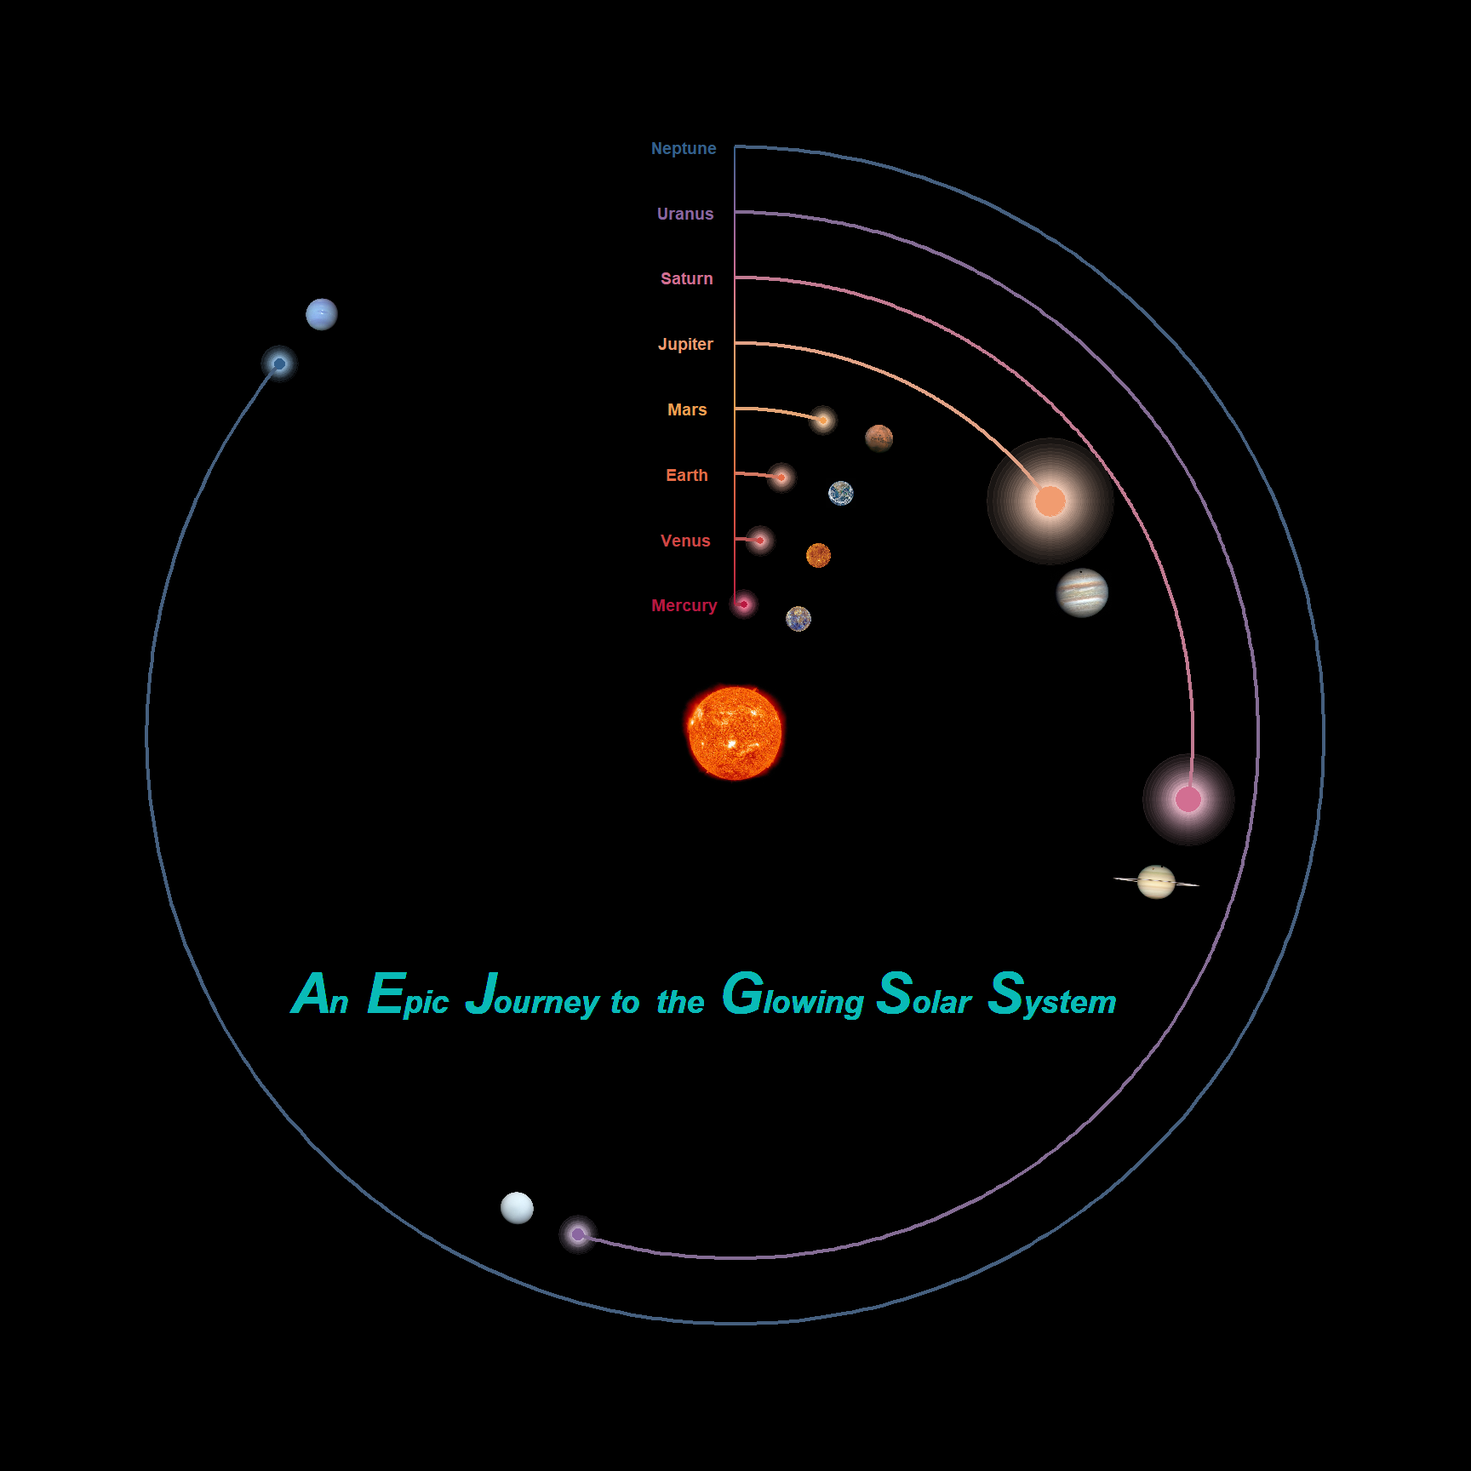
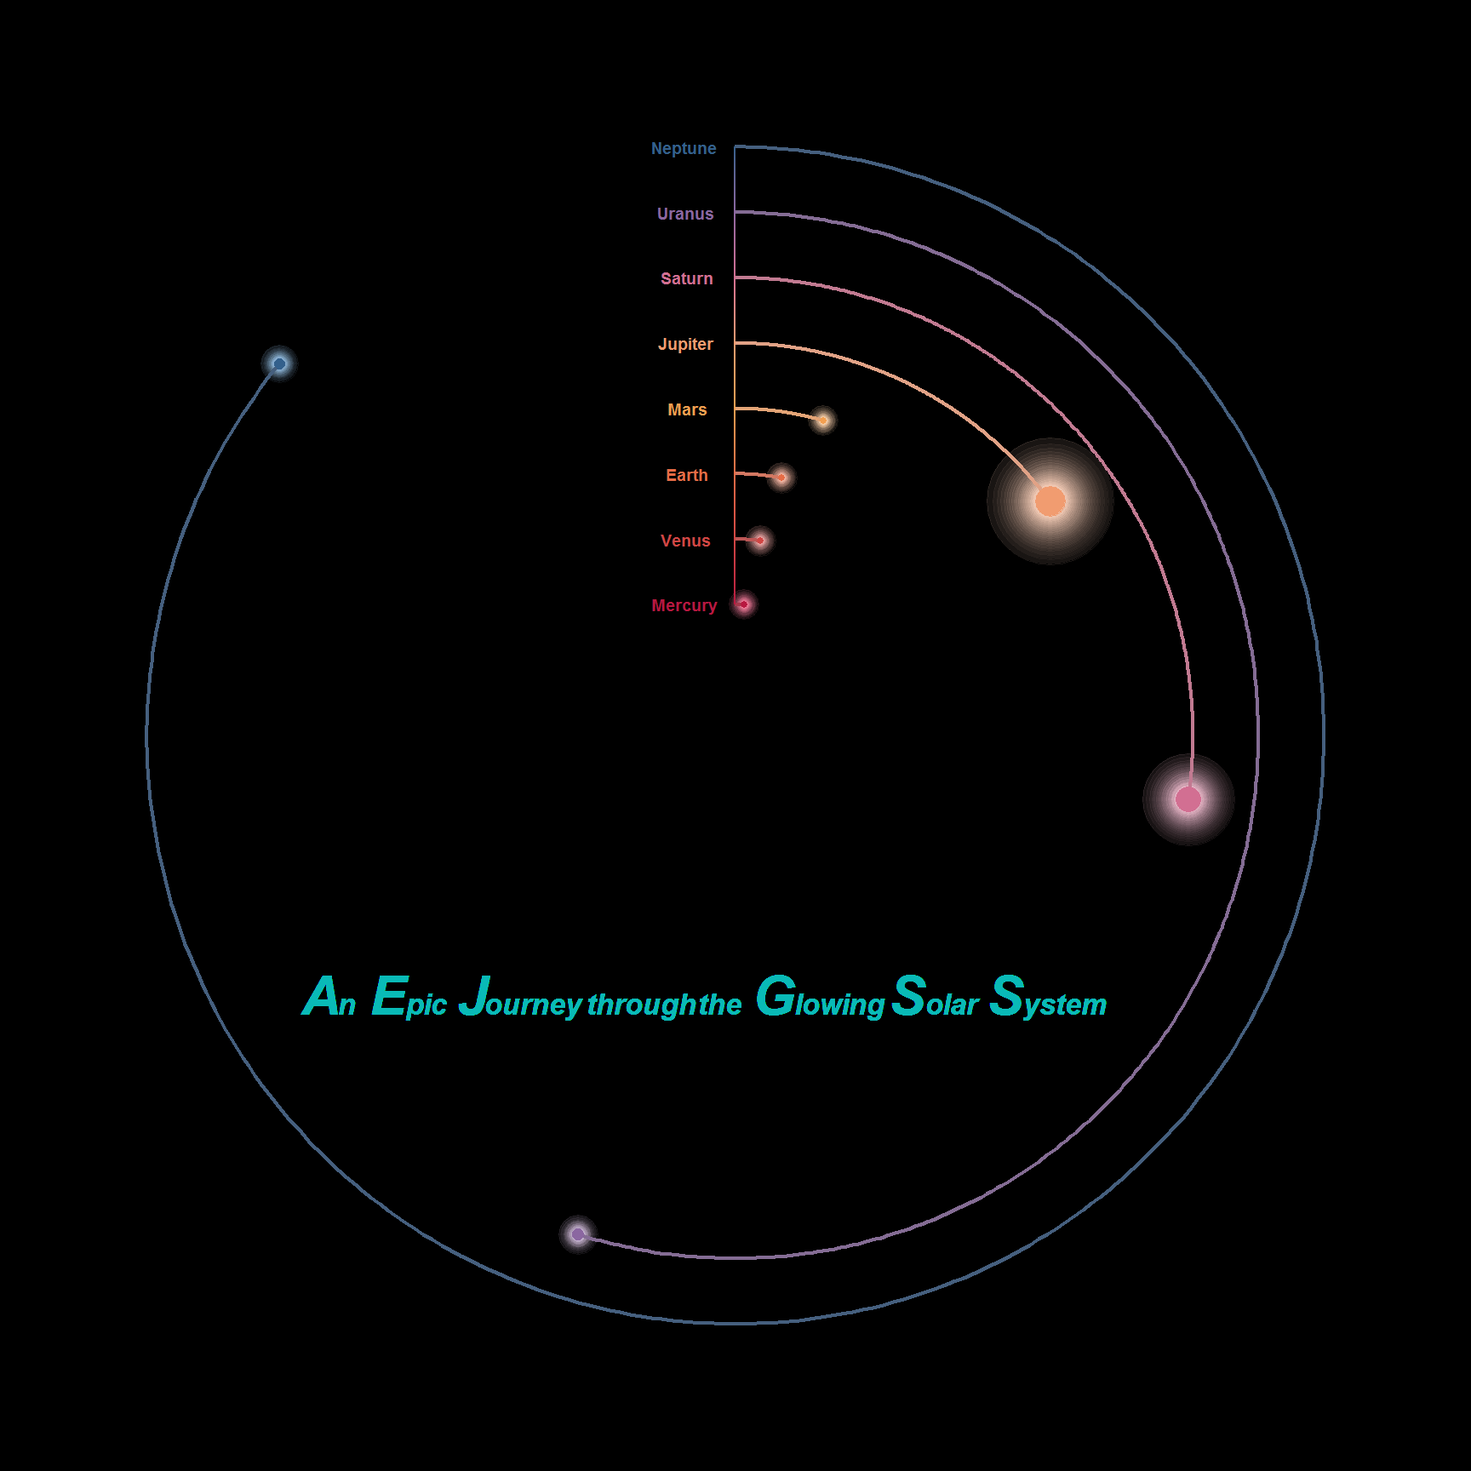
u

diff --git a/_posts/2022-11-02-post-22-the-glowing-solar-system/post-22-the-glowing-solar-system.html b/_posts/2022-11-02-post-22-the-glowing-solar-system/post-22-the-glowing-solar-system.html
@@ -1489,7 +1489,7 @@ code span.wa { color: #5e5e5e; font-style: italic; } /* Warning */
 <!--radix_placeholder_front_matter-->
 
 <script id="distill-front-matter" type="text/json">
-{"title":"Post #22. An epic ggplot journey through the glowing solar system","description":"Ready for an epic ggplot journey through the glowing solar system? Let's go!","authors":[{"author":"Gen-Chang Hsu","authorURL":"#","affiliation":"&nbsp;","affiliationURL":"#","orcidID":""}],"publishedDate":"2022-11-02T00:00:00.000+08:00","citationText":"Hsu, 2022"}
+{"title":"Post #22. An epic ggplot journey through the glowing solar system","description":"Ready for an epic ggplot journey through the glowing solar system? Let's go!","authors":[{"author":"Gen-Chang Hsu","authorURL":"#","affiliation":"&nbsp;","affiliationURL":"#","orcidID":""}],"publishedDate":"2022-11-02T00:00:00.000-07:00","citationText":"Hsu, 2022"}
 </script>
 
 <!--/radix_placeholder_front_matter-->
@@ -1610,10 +1610,11 @@ science skills: data scraping, data wrangling, and data
 visualization.</p>
 <p>The rocket is about to lift off now. Take a deep breath and we are
 ready for our space journey!!!</p>
-<h2 id="a-leg-by-leg-journey-to-the-solar-system">A leg-by-leg journey
-to the solar system</h2>
+<h2 id="a-leg-by-leg-journey-through-the-solar-system">A leg-by-leg
+journey through the solar system</h2>
 <p>This is quite a long journey, and so I’ll break it down into several
-legs so that we can fully explore the scenery along the way.</p>
+legs so that we can fully explore the great scenery of the outer space
+along the way.</p>
 <h3 id="leg-1.-scrape-the-planetary-data">Leg 1. Scrape the planetary
 data</h3>
 <p>Our first leg is to prepare the planetary data for our figure. We’ll
@@ -1643,18 +1644,18 @@ into a tidy table.</p>
 <span></span>
 <span><span class='fu'><a href='https://rdrr.io/r/utils/head.html'>head</a></span><span class='op'>(</span><span class='va'>planetary_dat</span>, <span class='fl'>5</span><span class='op'>)</span></span></code></pre>
 </div>
-<pre><code># A tibble: 5 × 9
-  row_id planet  distance_fr…¹ perio…² perio…³ mass_…⁴ diame…⁵ numbe…⁶
+<pre><code># A tibble: 5 x 9
+  row_id planet  distance_fr~1 perio~2 perio~3 mass_~4 diame~5 numbe~6
    &lt;int&gt; &lt;chr&gt;           &lt;dbl&gt; &lt;chr&gt;   &lt;chr&gt;     &lt;dbl&gt;   &lt;dbl&gt;   &lt;dbl&gt;
 1      1 Mercury          0.39 88 days 59 days    0.06    0.38       0
-2      2 Venus            0.72 225 da… 243 da…    0.82    0.95       0
-3      3 Earth            1    365 da… 24 hou…    1       1          1
-4      4 Mars             1.52 687 da… 25 hou…    0.11    0.53       2
-5      5 Jupiter          5.2  12 yea… 10 hou…  318.     11.2       63
-# … with 1 more variable: volume_earth_1 &lt;dbl&gt;, and abbreviated
-#   variable names ¹distance_from_the_sun_au, ²period_of_revolution,
-#   ³period_of_rotation, ⁴mass_earth_1, ⁵diameter_earth_1,
-#   ⁶number_of_confirmed_satellites</code></pre>
+2      2 Venus            0.72 225 da~ 243 da~    0.82    0.95       0
+3      3 Earth            1    365 da~ 24 hou~    1       1          1
+4      4 Mars             1.52 687 da~ 25 hou~    0.11    0.53       2
+5      5 Jupiter          5.2  12 yea~ 10 hou~  318.     11.2       63
+# ... with 1 more variable: volume_earth_1 &lt;dbl&gt;, and abbreviated
+#   variable names 1: distance_from_the_sun_au,
+#   2: period_of_revolution, 3: period_of_rotation, 4: mass_earth_1,
+#   5: diameter_earth_1, 6: number_of_confirmed_satellites</code></pre>
 </div>
 <h3 id="leg-2.-retrieve-the-url-paths-to-the-planet-images">Leg 2.
 Retrieve the url paths to the planet images</h3>
@@ -1778,32 +1779,47 @@ package <code>gginnards</code> will do the trick.</p>
 <span></span>
 <span><span class='kw'><a href='https://rdrr.io/r/base/library.html'>library</a></span><span class='op'>(</span><span class='va'><a href='https://www.r4photobiology.info'>gginnards</a></span><span class='op'>)</span></span>
 <span></span>
-<span><span class='fu'><a href='https://purrr.tidyverse.org/reference/map.html'>map_chr</a></span><span class='op'>(</span><span class='va'>P_solar_system</span><span class='op'>$</span><span class='va'>layers</span>, <span class='kw'>function</span><span class='op'>(</span><span class='va'>x</span><span class='op'>)</span><span class='op'>{</span><span class='fu'><a href='https://rdrr.io/r/base/class.html'>class</a></span><span class='op'>(</span><span class='va'>x</span><span class='op'>$</span><span class='va'>geom</span><span class='op'>)</span><span class='op'>[</span><span class='fl'>1</span><span class='op'>]</span><span class='op'>}</span><span class='op'>)</span>  <span class='co'># get the layer names</span></span></code></pre>
-</div>
-<pre><code>[1] &quot;GeomPointBlur&quot;       &quot;GeomPath&quot;            &quot;GeomPoint&quot;          
-[4] &quot;GeomPathInterpolate&quot; &quot;GeomRichText&quot;        &quot;GeomRichText&quot;       </code></pre>
-<div class="sourceCode">
-<pre class="sourceCode r"><code class="sourceCode r"><span><span class='va'>P_solar_system</span> <span class='op'>&lt;-</span> <span class='fu'><a href='https://rdrr.io/pkg/gginnards/man/delete_layers.html'>move_layers</a></span><span class='op'>(</span><span class='va'>P_solar_system</span>, <span class='st'>"GeomRichText"</span>, position <span class='op'>=</span> <span class='st'>"bottom"</span><span class='op'>)</span>  <span class='co'># move the layer "GeomRichText" to the bottom  </span></span>
+<span><span class='fu'><a href='https://purrr.tidyverse.org/reference/map.html'>map_chr</a></span><span class='op'>(</span><span class='va'>P_solar_system</span><span class='op'>$</span><span class='va'>layers</span>, <span class='kw'>function</span><span class='op'>(</span><span class='va'>x</span><span class='op'>)</span><span class='op'>{</span><span class='fu'><a href='https://rdrr.io/r/base/class.html'>class</a></span><span class='op'>(</span><span class='va'>x</span><span class='op'>$</span><span class='va'>geom</span><span class='op'>)</span><span class='op'>[</span><span class='fl'>1</span><span class='op'>]</span><span class='op'>}</span><span class='op'>)</span>  <span class='co'># get the layer names</span></span>
+<span><span class='va'>P_solar_system</span> <span class='op'>&lt;-</span> <span class='fu'><a href='https://rdrr.io/pkg/gginnards/man/delete_layers.html'>move_layers</a></span><span class='op'>(</span><span class='va'>P_solar_system</span>, <span class='st'>"GeomRichText"</span>, position <span class='op'>=</span> <span class='st'>"bottom"</span><span class='op'>)</span>  <span class='co'># move the layer "GeomRichText" to the bottom  </span></span>
 <span><span class='va'>P_solar_system</span></span></code></pre>
 </div>
-<p><img src="post-22-the-glowing-solar-system_files/figure-html5/unnamed-chunk-5-1.png" width="80%" style="display: block; margin: auto;" /></p>
 </div>
 <h3 id="leg-6.-add-a-title-and-planet-labels">Leg 6. Add a title and
 planet labels</h3>
+<p>Our sixth leg is to add a title and planet labels to the chart. Here
+I used <code>geom_text()</code> to map the planet labels to the desired
+positions, and again <code>geom_richtext()</code> to add a title using
+the HTML syntax.</p>
+<p>I think you might wonder why I padded the planet labels. Actually,
+when I just added the labels and adjusted their positions to the left of
+the vertical line by setting <code>hjust = 1</code>, these labels were
+left-shifted but right-aligned (which didn’t look so pleasant in my
+opinion). This is mainly due to the fact that the labels are of
+different lengths. I wanted the labels to be centered, and so I used
+this padding trick to make the labels extremely long and of similar
+lengths. In this way, I don’t have to adjust the positions that much
+(<code>hjust = 0.7</code> would be enough to shift the labels to the
+left), and this will largely reduce the right-alignment problem.</p>
+<p>After some trial and error, the labels seemed to be fairly centered.
+Sometimes it does take a while to experiment and fine-tune the values
+when you adjust the item positions (and this could even a bit
+irritating!). But isn’t this the most fun and fulfilling part of making
+figures?!</p>
 <div class="layout-chunk" data-layout="l-body">
 <div class="sourceCode">
-<pre class="sourceCode r"><code class="sourceCode r"><span><span class='va'>planetary_dat</span> <span class='op'>&lt;-</span> <span class='va'>planetary_dat</span> <span class='op'><a href='https://magrittr.tidyverse.org/reference/pipe.html'>%&gt;%</a></span> </span>
+<pre class="sourceCode r"><code class="sourceCode r"><span><span class='kw'><a href='https://rdrr.io/r/base/library.html'>library</a></span><span class='op'>(</span><span class='va'><a href='https://wilkelab.org/ggtext/'>ggtext</a></span><span class='op'>)</span></span>
+<span><span class='va'>planetary_dat</span> <span class='op'>&lt;-</span> <span class='va'>planetary_dat</span> <span class='op'><a href='https://magrittr.tidyverse.org/reference/pipe.html'>%&gt;%</a></span> </span>
 <span>  <span class='fu'><a href='https://dplyr.tidyverse.org/reference/mutate.html'>mutate</a></span><span class='op'>(</span>planet_pad <span class='op'>=</span> <span class='fu'><a href='https://rdrr.io/r/base/ifelse.html'>ifelse</a></span><span class='op'>(</span><span class='fu'><a href='https://rdrr.io/r/base/nchar.html'>nchar</a></span><span class='op'>(</span><span class='va'>planet</span><span class='op'>)</span><span class='op'><a href='https://rdrr.io/r/base/Arithmetic.html'>%%</a></span><span class='fl'>2</span> <span class='op'>==</span> <span class='fl'>0</span>, </span>
 <span>                             <span class='fu'><a href='https://stringr.tidyverse.org/reference/str_pad.html'>str_pad</a></span><span class='op'>(</span><span class='va'>planet</span>, width <span class='op'>=</span> <span class='fl'>50</span>, side <span class='op'>=</span> <span class='st'>"both"</span><span class='op'>)</span>,</span>
-<span>                             <span class='fu'><a href='https://stringr.tidyverse.org/reference/str_pad.html'>str_pad</a></span><span class='op'>(</span><span class='va'>planet</span>, width <span class='op'>=</span> <span class='fl'>51</span>, side <span class='op'>=</span> <span class='st'>"both"</span><span class='op'>)</span><span class='op'>)</span><span class='op'>)</span></span>
+<span>                             <span class='fu'><a href='https://stringr.tidyverse.org/reference/str_pad.html'>str_pad</a></span><span class='op'>(</span><span class='va'>planet</span>, width <span class='op'>=</span> <span class='fl'>51</span>, side <span class='op'>=</span> <span class='st'>"both"</span><span class='op'>)</span><span class='op'>)</span><span class='op'>)</span>  <span class='co'># pad the labels</span></span>
 <span></span>
 <span><span class='va'>P_solar_system</span> <span class='op'>&lt;-</span> <span class='va'>P_solar_system</span> <span class='op'>+</span> </span>
 <span>  <span class='fu'><a href='https://ggplot2.tidyverse.org/reference/geom_text.html'>geom_text</a></span><span class='op'>(</span>data <span class='op'>=</span> <span class='va'>planetary_dat</span>, <span class='fu'><a href='https://ggplot2.tidyverse.org/reference/aes.html'>aes</a></span><span class='op'>(</span>x <span class='op'>=</span> <span class='va'>row_id</span>, y <span class='op'>=</span> <span class='fl'>0</span>, color <span class='op'>=</span> <span class='va'>row_id</span>,</span>
 <span>                                          label <span class='op'>=</span> <span class='fu'><a href='https://glue.tidyverse.org/reference/glue.html'>glue</a></span><span class='op'>(</span><span class='st'>"{planet_pad}"</span><span class='op'>)</span><span class='op'>)</span>,</span>
 <span>            size <span class='op'>=</span> <span class='fl'>2.5</span>, fontface <span class='op'>=</span> <span class='st'>"bold"</span>, hjust <span class='op'>=</span> <span class='fl'>0.7</span><span class='op'>)</span> <span class='op'>+</span> </span>
 <span>  <span class='fu'><a href='https://wilkelab.org/ggtext/reference/geom_richtext.html'>geom_richtext</a></span><span class='op'>(</span>data <span class='op'>=</span> <span class='va'>planetary_dat</span>, <span class='fu'><a href='https://ggplot2.tidyverse.org/reference/aes.html'>aes</a></span><span class='op'>(</span>x <span class='op'>=</span> <span class='fl'>3.3</span>, y <span class='op'>=</span> <span class='fl'>18.2</span>,</span>
-<span>                                          label <span class='op'>=</span> <span class='st'>"&lt;b&gt;&lt;span style = 'font-size:25pt'&gt;A&lt;/span&gt;n&lt;span&gt; &lt;/span&gt;&lt;span style = 'font-size:25pt'&gt;E&lt;/span&gt;pic&lt;span&gt; &lt;/span&gt;&lt;span style = 'font-size:25pt'&gt;J&lt;/span&gt;ourney&lt;span&gt; &lt;/span&gt;to&lt;span&gt; &lt;/span&gt;the&lt;span&gt; &lt;/span&gt;&lt;span style = 'font-size:25pt'&gt;G&lt;/span&gt;lowing&lt;span&gt; &lt;/span&gt;&lt;span style = 'font-size:25pt'&gt;S&lt;/span&gt;olar&lt;span&gt; &lt;/span&gt;&lt;span style = 'font-size:25pt'&gt;S&lt;/span&gt;ystem&lt;/b&gt;&lt;br&gt;"</span><span class='op'>)</span>,</span>
-<span>                size <span class='op'>=</span> <span class='fl'>5</span>, </span>
+<span>                                          label <span class='op'>=</span> <span class='st'>"&lt;b&gt;&lt;span style = 'font-size:24pt'&gt;A&lt;/span&gt;n&lt;span&gt; &lt;/span&gt;&lt;span style = 'font-size:24pt'&gt;E&lt;/span&gt;pic&lt;span&gt; &lt;/span&gt;&lt;span style = 'font-size:24pt'&gt;J&lt;/span&gt;ourney&lt;span&gt; &lt;/span&gt;through&lt;span&gt; &lt;/span&gt;the&lt;span&gt; &lt;/span&gt;&lt;span style = 'font-size:24pt'&gt;G&lt;/span&gt;lowing&lt;span&gt; &lt;/span&gt;&lt;span style = 'font-size:24pt'&gt;S&lt;/span&gt;olar&lt;span&gt; &lt;/span&gt;&lt;span style = 'font-size:24pt'&gt;S&lt;/span&gt;ystem&lt;/b&gt;&lt;br&gt;"</span><span class='op'>)</span>,</span>
+<span>                size <span class='op'>=</span> <span class='fl'>4.5</span>, </span>
 <span>                color <span class='op'>=</span> <span class='cn'>NA</span>,</span>
 <span>                fill <span class='op'>=</span> <span class='cn'>NA</span>,</span>
 <span>                text.color <span class='op'>=</span> <span class='st'>"#09bab7"</span>,</span>
@@ -1816,12 +1832,17 @@ planet labels</h3>
 </div>
 <h3 id="leg-7.-sprinkle-some-glittering-stars">Leg 7. Sprinkle some
 glittering stars</h3>
+<p>We’re almost done! Our final leg is to embellish the figure with some
+glittering stars. We’ll do this by first creating another ggplot with
+random blurry points scattered across a transparent background, and then
+overlaying it on the original planet figure using the functions in the
+package <code>cowplot</code>.</p>
 <div class="layout-chunk" data-layout="l-body">
 <div class="sourceCode">
 <pre class="sourceCode r"><code class="sourceCode r"><span><span class='fu'><a href='https://rdrr.io/r/base/Random.html'>set.seed</a></span><span class='op'>(</span><span class='fl'>123</span><span class='op'>)</span></span>
 <span><span class='va'>stars_df</span> <span class='op'>&lt;-</span> <span class='fu'><a href='https://rdrr.io/r/base/data.frame.html'>data.frame</a></span><span class='op'>(</span>x <span class='op'>=</span> <span class='fu'><a href='https://rdrr.io/r/stats/Uniform.html'>runif</a></span><span class='op'>(</span><span class='fl'>50</span><span class='op'>)</span>,</span>
 <span>                       y <span class='op'>=</span> <span class='fu'><a href='https://rdrr.io/r/stats/Uniform.html'>runif</a></span><span class='op'>(</span><span class='fl'>50</span><span class='op'>)</span>,</span>
-<span>                       size <span class='op'>=</span> <span class='fu'><a href='https://rdrr.io/r/stats/Uniform.html'>runif</a></span><span class='op'>(</span><span class='fl'>50</span><span class='op'>)</span><span class='op'>)</span></span>
+<span>                       size <span class='op'>=</span> <span class='fu'><a href='https://rdrr.io/r/stats/Uniform.html'>runif</a></span><span class='op'>(</span><span class='fl'>50</span><span class='op'>)</span><span class='op'>)</span>  <span class='co'># stars of random positions and sizes</span></span>
 <span></span>
 <span><span class='va'>P_stars</span> <span class='op'>&lt;-</span> <span class='fu'><a href='https://ggplot2.tidyverse.org/reference/ggplot.html'>ggplot</a></span><span class='op'>(</span><span class='op'>)</span> <span class='op'>+</span> </span>
 <span>  <span class='fu'><a href='https://rdrr.io/pkg/ggblur/man/geom_point_blur.html'>geom_point_blur</a></span><span class='op'>(</span>data <span class='op'>=</span> <span class='va'>stars_df</span>, <span class='fu'><a href='https://ggplot2.tidyverse.org/reference/aes.html'>aes</a></span><span class='op'>(</span>x <span class='op'>=</span> <span class='va'>x</span>, y <span class='op'>=</span> <span class='va'>y</span>, size <span class='op'>=</span> <span class='va'>size</span>,</span>
@@ -1831,23 +1852,26 @@ glittering stars</h3>
 <span>  <span class='fu'><a href='https://ggplot2.tidyverse.org/reference/scale_size.html'>scale_size_continuous</a></span><span class='op'>(</span>range <span class='op'>=</span> <span class='fu'><a href='https://rdrr.io/r/base/c.html'>c</a></span><span class='op'>(</span><span class='fl'>0</span>, <span class='fl'>0.35</span><span class='op'>)</span><span class='op'>)</span> <span class='op'>+</span> </span>
 <span>  <span class='fu'><a href='https://ggplot2.tidyverse.org/reference/ggtheme.html'>theme_void</a></span><span class='op'>(</span><span class='op'>)</span> <span class='op'>+</span> </span>
 <span>  <span class='fu'><a href='https://ggplot2.tidyverse.org/reference/theme.html'>theme</a></span><span class='op'>(</span>plot.background <span class='op'>=</span> <span class='fu'><a href='https://ggplot2.tidyverse.org/reference/element.html'>element_rect</a></span><span class='op'>(</span>fill <span class='op'>=</span> <span class='st'>"transparent"</span>, </span>
-<span>                                       color <span class='op'>=</span> <span class='st'>"transparent"</span><span class='op'>)</span><span class='op'>)</span></span>
+<span>                                       color <span class='op'>=</span> <span class='st'>"transparent"</span><span class='op'>)</span>,</span>
+<span>        plot.margin <span class='op'>=</span> <span class='fu'><a href='https://ggplot2.tidyverse.org/reference/element.html'>margin</a></span><span class='op'>(</span><span class='fl'>0</span>, <span class='fl'>0</span>, <span class='fl'>0</span>, <span class='fl'>0</span><span class='op'>)</span><span class='op'>)</span></span>
 <span></span>
 <span><span class='kw'><a href='https://rdrr.io/r/base/library.html'>library</a></span><span class='op'>(</span><span class='va'><a href='https://wilkelab.org/cowplot/'>cowplot</a></span><span class='op'>)</span></span>
 <span></span>
 <span><span class='va'>P_final</span> <span class='op'>&lt;-</span> <span class='fu'><a href='https://wilkelab.org/cowplot/reference/ggdraw.html'>ggdraw</a></span><span class='op'>(</span><span class='va'>P_solar_system</span><span class='op'>)</span> <span class='op'>+</span> </span>
-<span>  <span class='fu'><a href='https://wilkelab.org/cowplot/reference/draw_plot.html'>draw_plot</a></span><span class='op'>(</span><span class='va'>P_stars</span><span class='op'>)</span></span>
+<span>  <span class='fu'><a href='https://wilkelab.org/cowplot/reference/draw_plot.html'>draw_plot</a></span><span class='op'>(</span><span class='va'>P_stars</span><span class='op'>)</span>  <span class='co'># overlay the stars on the planet figure</span></span>
 <span></span>
 <span><span class='va'>P_final</span></span></code></pre>
 </div>
 <p><img src="post-22-the-glowing-solar-system_files/figure-html5/unnamed-chunk-7-1.png" width="80%" style="display: block; margin: auto;" /></p>
 </div>
-<p>We’re at the very end of the solar system. It’s time to go back to
-the Earth. See you next time!</p>
+<p>Well done! We make it to the very end of the journey. This is
+absolutely an amazing journey. Unfortunately, our rocket is running out
+of fuel and so it’s time to go back to the Earth. Hope you enjoy this
+memorable trip and will see you soon next time!</p>
 <h2 id="summary">Summary</h2>
-<p>Hope you enjoy the memorable ggplot space journey and don’t forget to
+<p>Hope you learn something useful from this post and don’t forget to
 leave your comments and suggestions below if you have any!</p>
-<div class="sourceCode" id="cb3"><pre
+<div class="sourceCode" id="cb2"><pre
 class="sourceCode r distill-force-highlighting-css"><code class="sourceCode r"></code></pre></div>
 <!--radix_placeholder_article_footer-->
 <!--/radix_placeholder_article_footer-->
